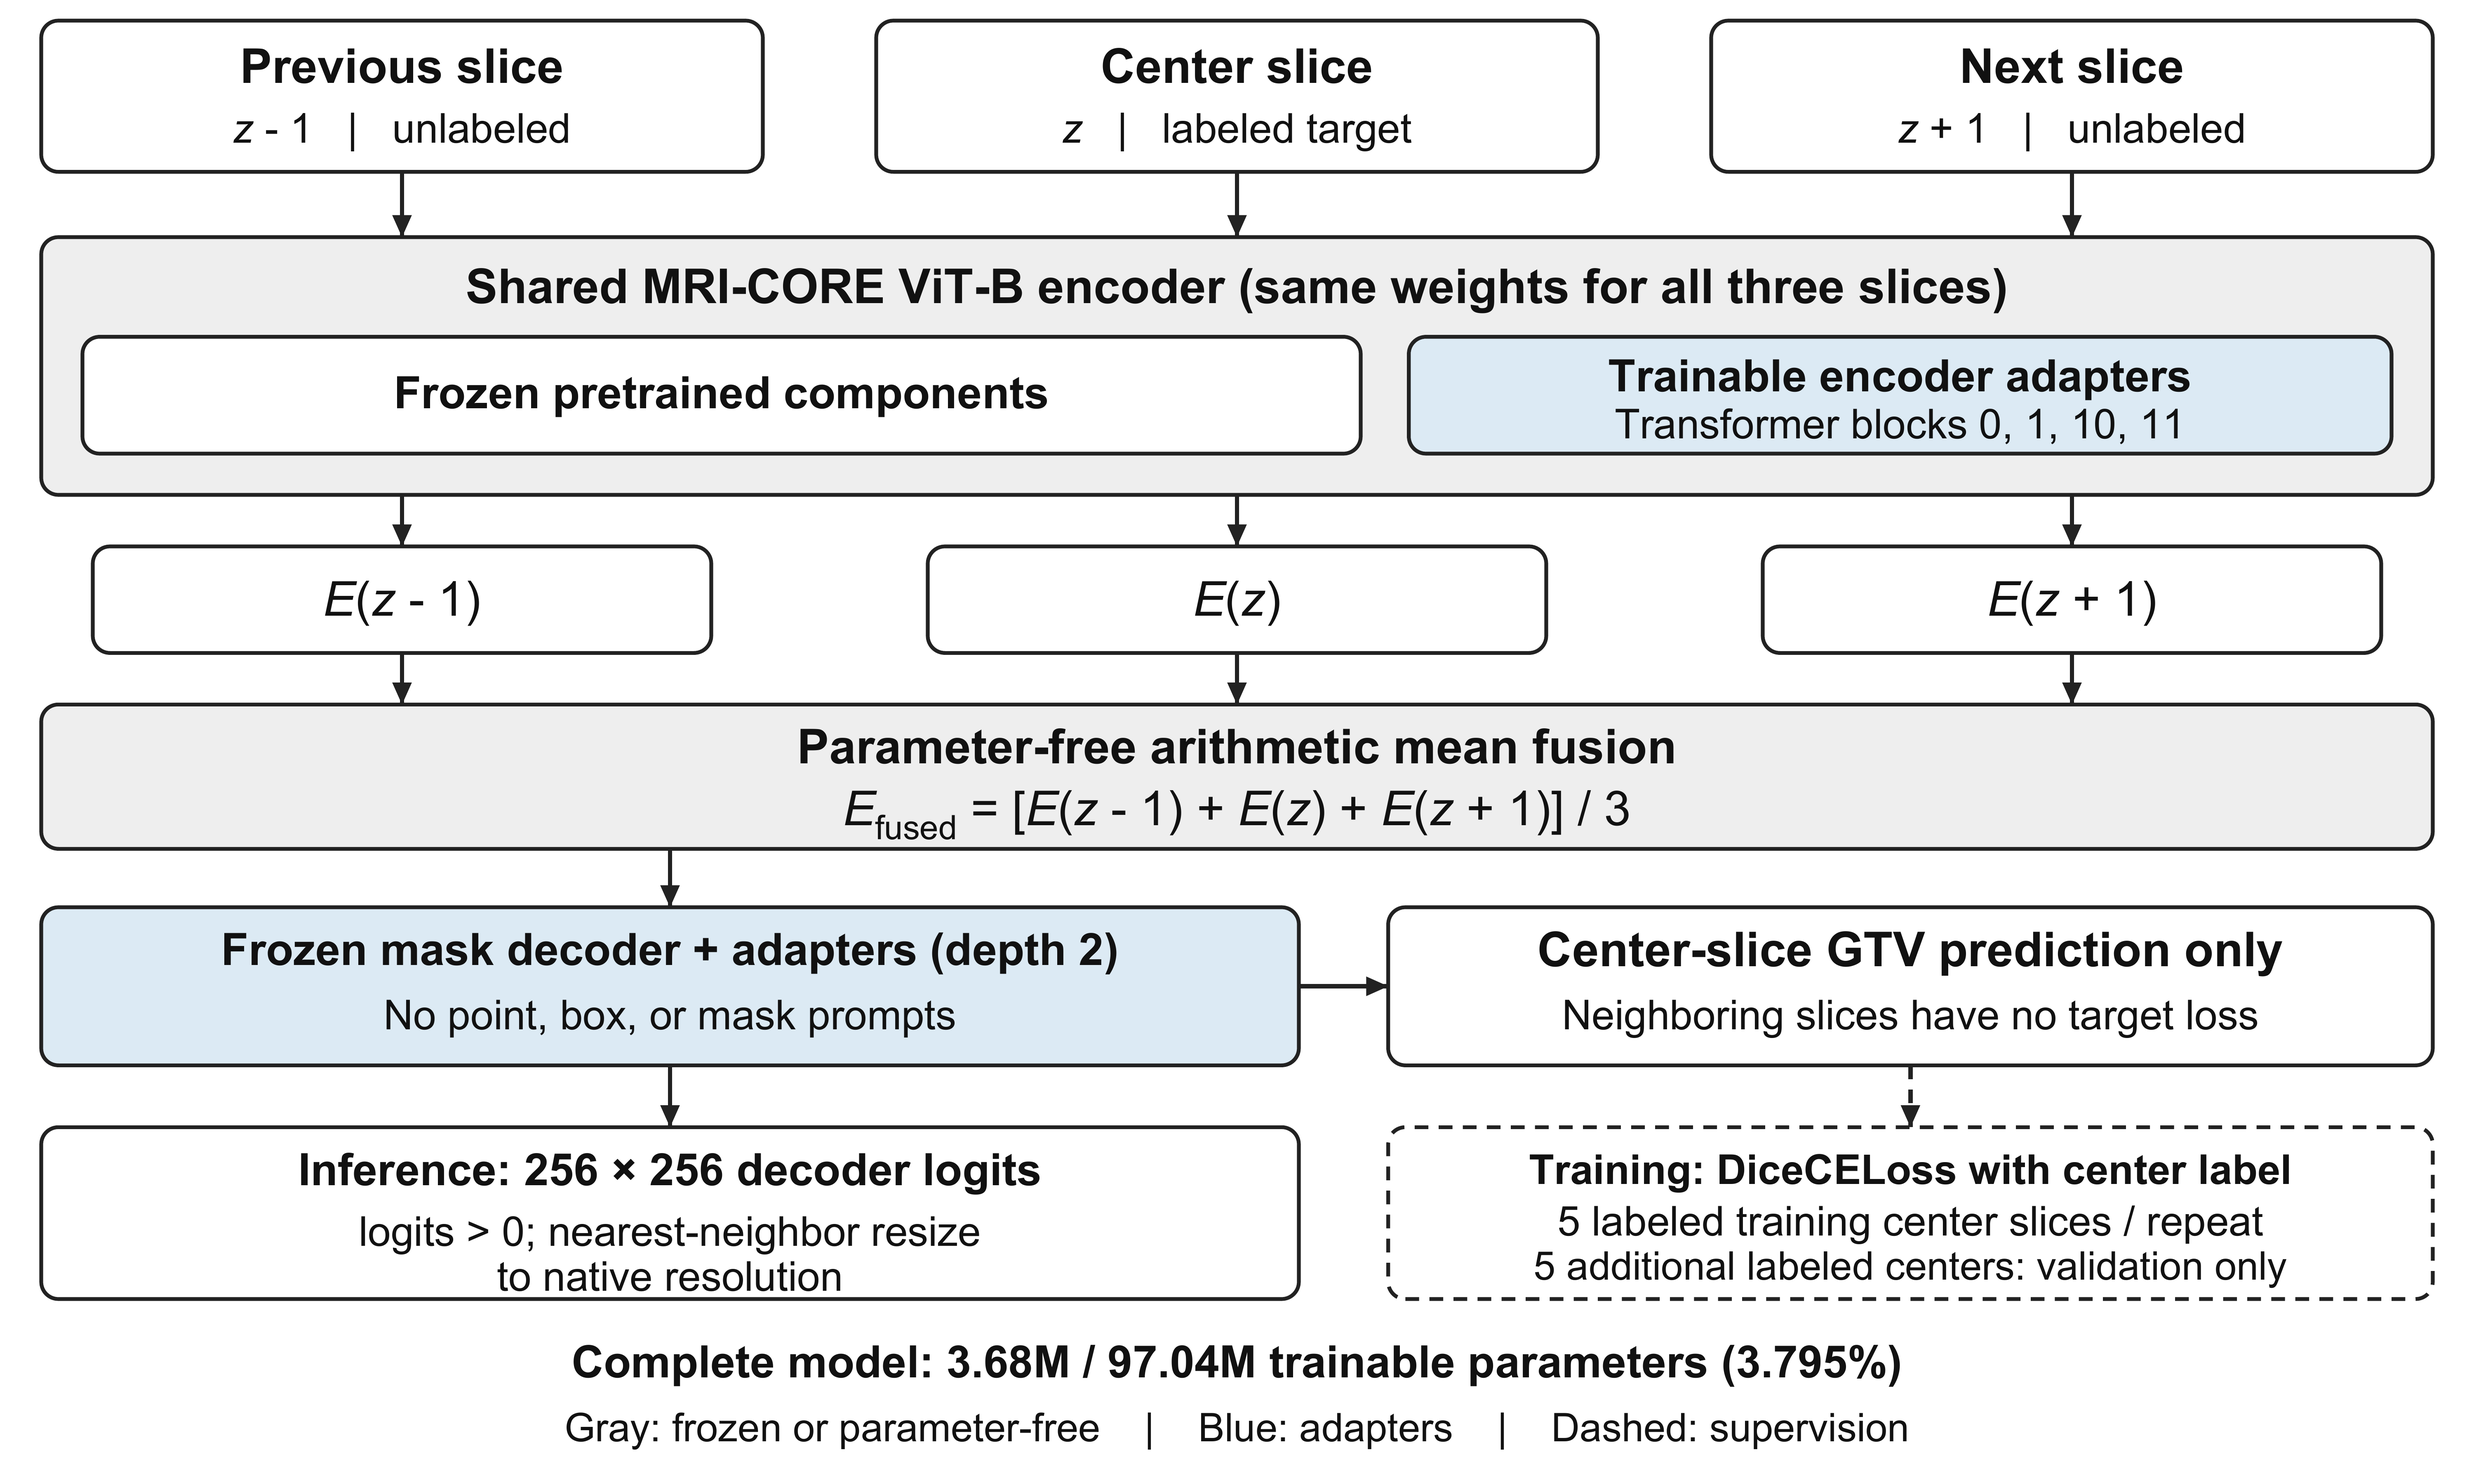
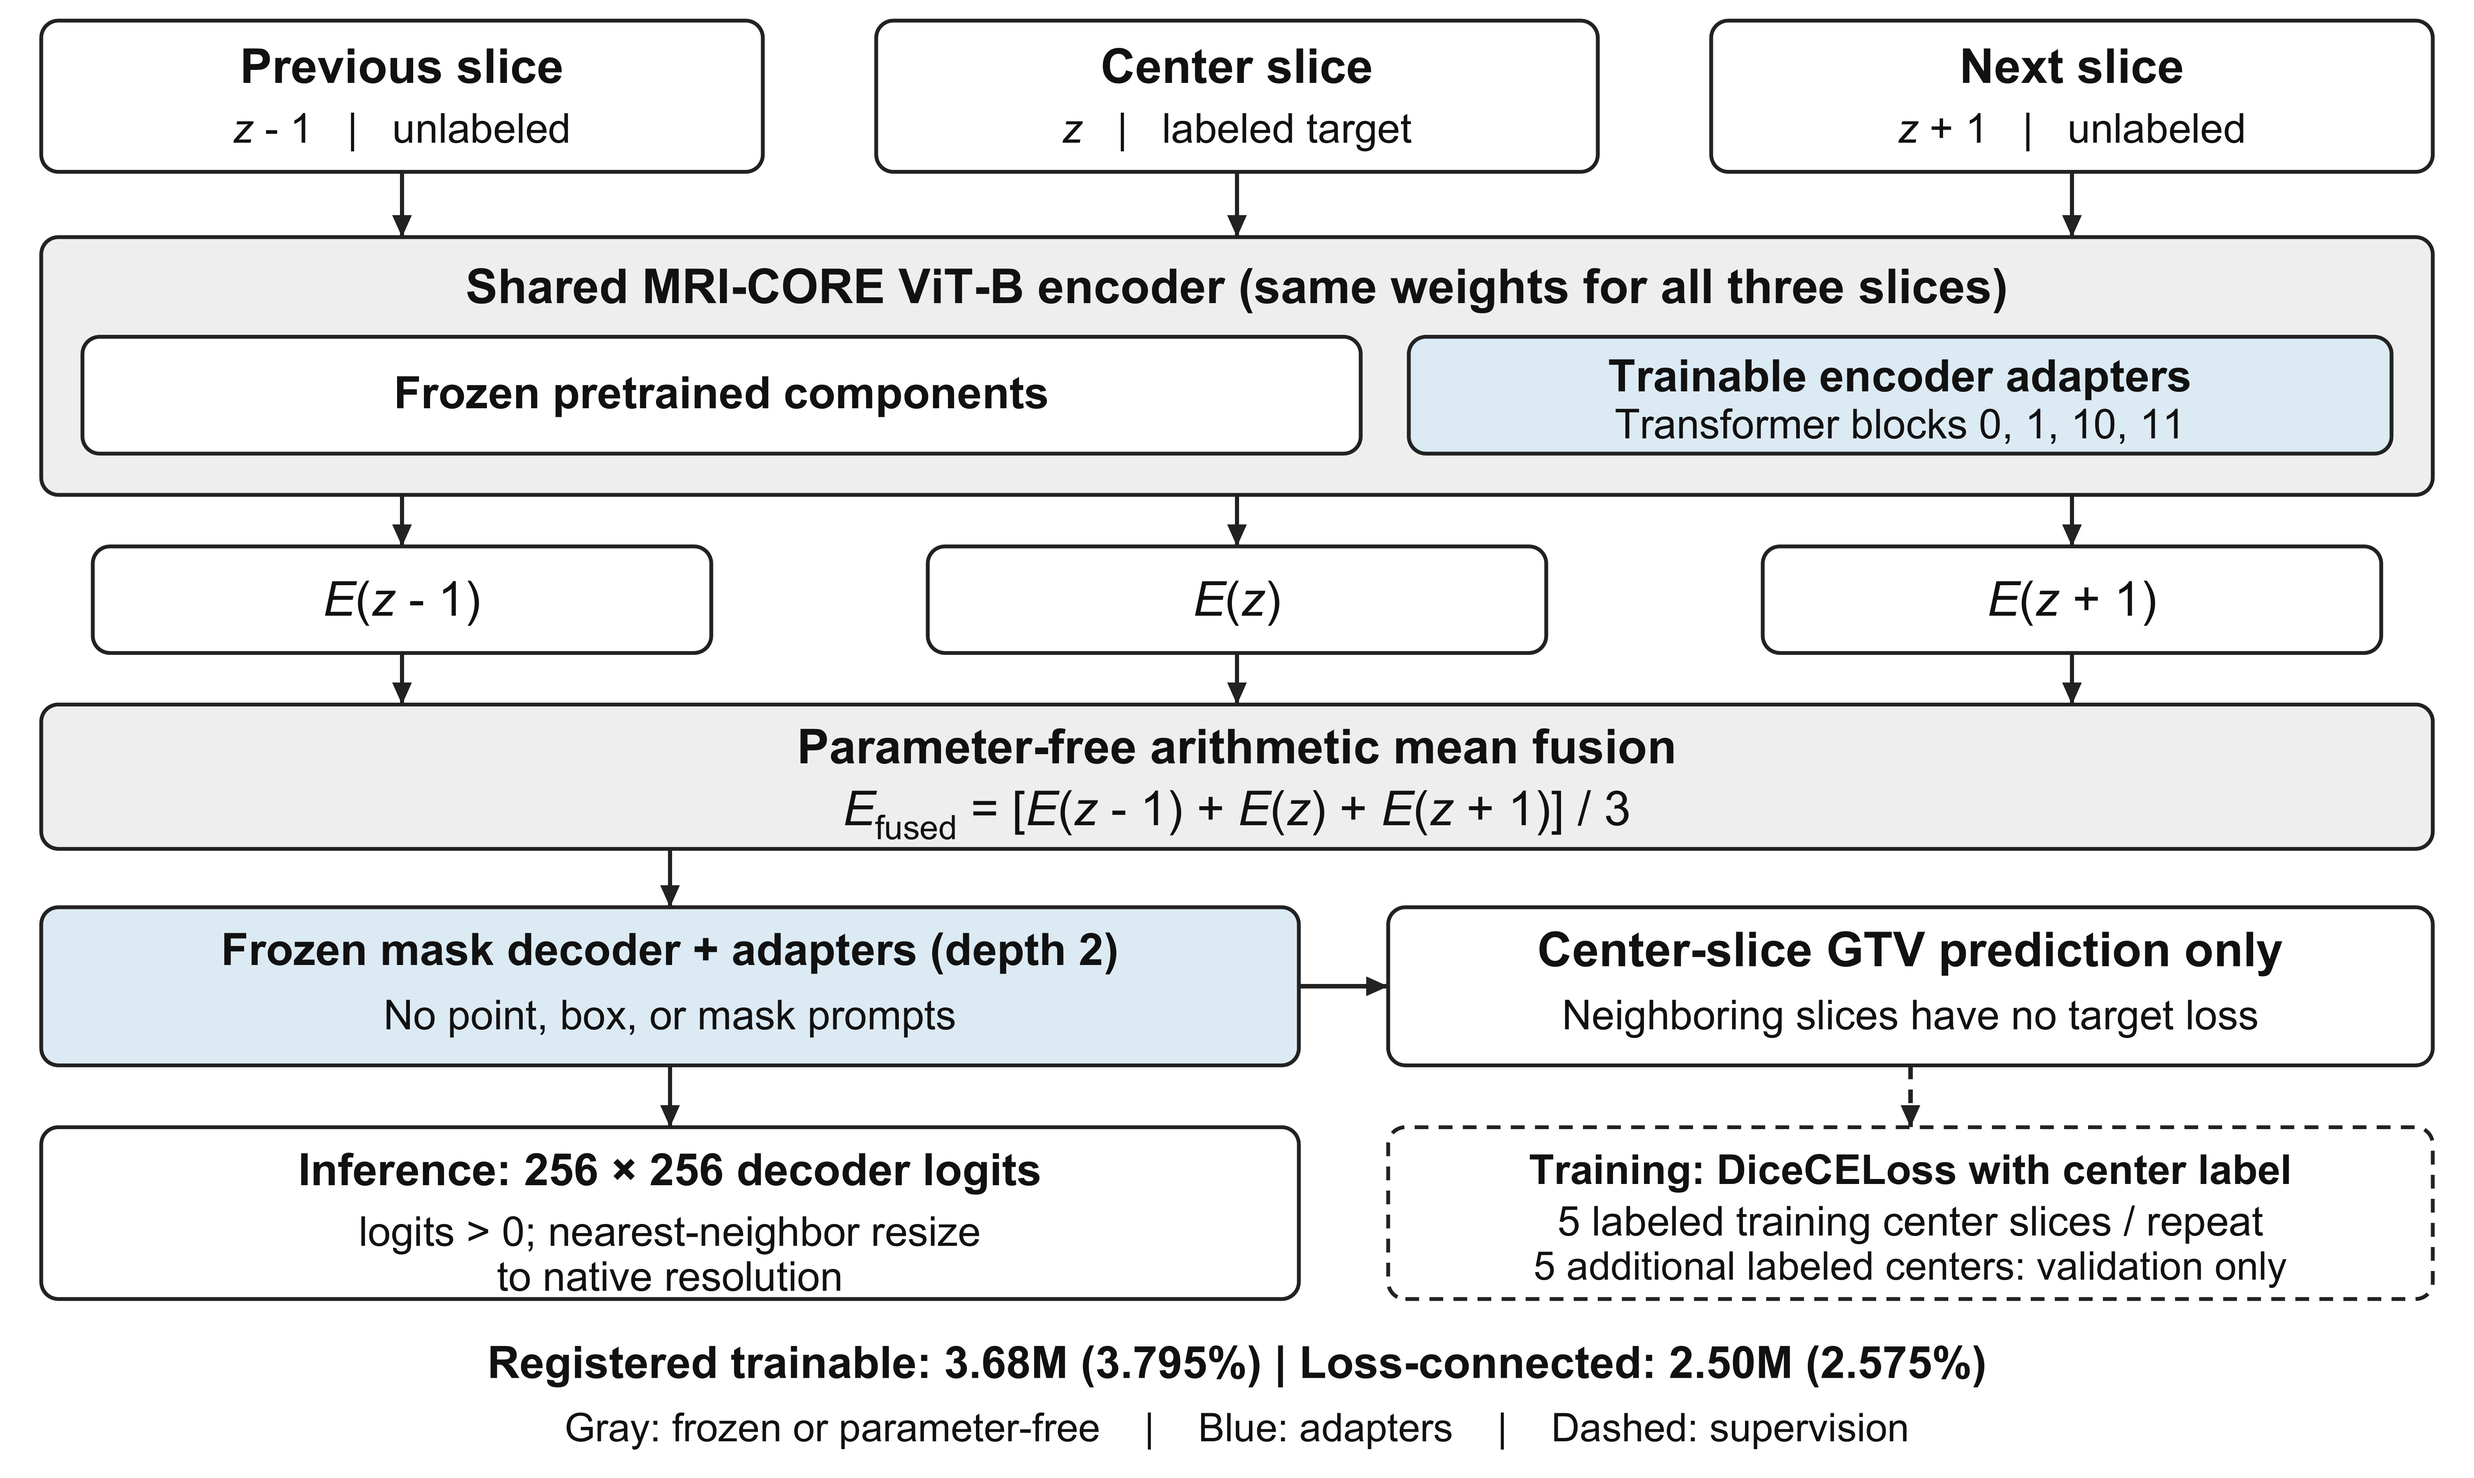
docs: clarify registered and loss-connected adapter parameters

Changed region(s): [[0.187, 0.9062, 0.8103, 0.9375]]

diff --git a/scripts/release_review.py b/scripts/release_review.py
@@ -67,7 +67,7 @@ def main():
                 if pattern.search(data): findings.append({'file':name,'check':label})
     # Verify the exact allowed scientific assets rather than permitting arbitrary PNGs.
     expected_assets={
[3 lines of base64/hex data omitted]
     for name,expected in expected_assets.items():
         if hashlib.sha256((REPOSITORY/name).read_bytes()).hexdigest()!=expected:

diff --git a/README.md b/README.md
@@ -12,8 +12,18 @@ CS-MRI-CORE adapts MRI-CORE ViT-B to meningioma gross tumor volume (GTV)
 segmentation in contrast-enhanced T1-weighted MRI. It shares one encoder across
 three adjacent axial slices and averages their embeddings before mask decoding.
 Only the center slice supplies the training target. Neighboring slices supply
-unlabeled context. Adapter tuning updates 3.68 million of 97.04 million
-parameters (3.795%) without introducing a trainable 3D backbone.
+unlabeled context, without introducing a trainable 3D backbone.
+
+The model registers 3,682,816 parameters with `requires_grad=True` (3.795% of
+97,044,974 total parameters). Source inspection and a synthetic CPU gradient
+check identified 2,499,328 loss-connected adapter parameters (2.575%). The
+remaining 1,183,488 registered parameters belong to four `Depth_Adapter` modules
+not invoked in the evaluated forward path. Both Single-Slice MRI-CORE and
+CS-MRI-CORE share this configuration. The synthetic check did not directly
+observe or replay historical optimizer updates.
+
+The `trainable_parameters` field in `configs/locked_protocol.json` records the
+registered `requires_grad=True` count, rather than the loss-connected subset.
 
 ![CS-MRI-CORE architecture](assets/Figure_1_CS_MRI_CORE.png)
 
